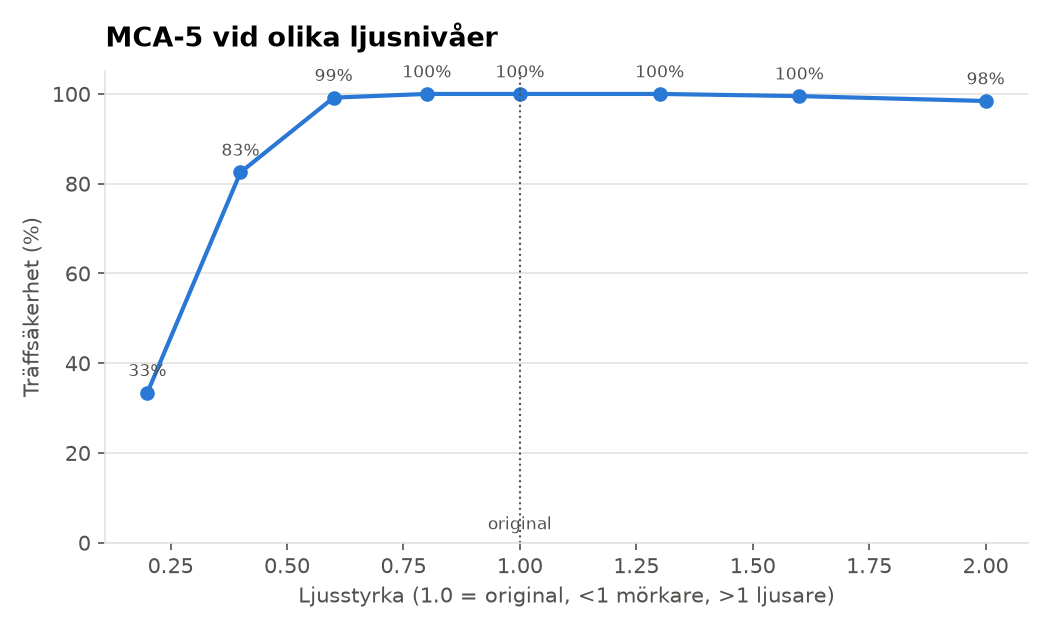
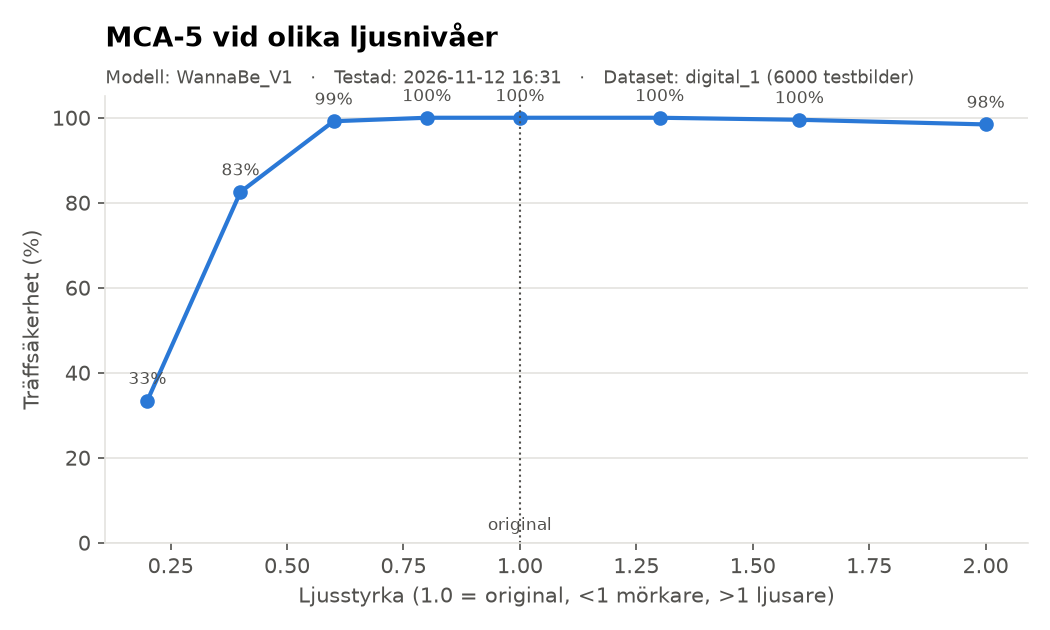
kommer inte ihåg vad som, gjordes här

diff --git a/grafer.py b/grafer.py
@@ -5,7 +5,9 @@ Kör (efter trana.py och utvardera.py):
     python grafer.py                       # senast utvärderade modellen
     python grafer.py --modell mca5_robust  # en viss modellmapp
 
-Läser robusthet.csv och logg.csv i modellens mapp och sparar graferna där:
+Läser robusthet.csv, logg.csv, testinfo.txt och info.txt i modellens mapp
+och sparar graferna där. Varje graf får en undertitel med modellens namn,
+när den testades/tränades och vilket dataset som användes:
     graf_suddighet.png   - träffsäkerhet vid ökande suddighet
     graf_ljus.png        - träffsäkerhet vid olika ljusnivåer
     graf_traning.png     - hur träffsäkerheten utvecklades under träningen
@@ -38,8 +40,25 @@ def läs_csv(fil):
     raise ValueError(f"Kunde inte läsa {fil}")
 
 
-def snygga_till(ax, titel, xetikett):
-    ax.set_title(titel, loc="left", fontsize=13, fontweight="bold", pad=12)
+UNDERTITEL = ""  # fylls i main() med modell, testdatum och dataset
+
+
+def läs_info(fil):
+    """Läser en info-fil med rader som 'nyckel: värde'."""
+    info = {}
+    if fil.exists():
+        for rad in fil.read_text(encoding="utf-8").splitlines():
+            if ":" in rad:
+                nyckel, värde = rad.split(":", 1)
+                info[nyckel.strip().lower()] = värde.strip()
+    return info
+
+
+def snygga_till(ax, titel, xetikett, undertitel=None):
+    undertitel = UNDERTITEL if undertitel is None else undertitel
+    ax.set_title(titel, loc="left", fontsize=13, fontweight="bold", pad=24 if undertitel else 12)
+    if undertitel:
+        ax.text(0, 1.02, undertitel, transform=ax.transAxes, fontsize=8.5, color=TEXT, va="bottom")
     ax.set_xlabel(xetikett, color=TEXT)
     ax.set_ylabel("Träffsäkerhet (%)", color=TEXT)
     ax.set_ylim(0, 105)
@@ -79,6 +98,12 @@ def main():
     print("Modell:", ut)
     loggfil = ut / "logg.csv"
 
+    # Undertitel: vilken modell, när den testades och på vilket dataset
+    global UNDERTITEL
+    test = läs_info(ut / "testinfo.txt")
+    UNDERTITEL = (f"Modell: {ut.name}   ·   Testad: {test.get('testad', 'okänt')}   ·   "
+                  f"Dataset: {test.get('dataset', 'okänt')} ({test.get('testbilder', '?')} testbilder)")
+
     # Robusthet: dela upp raderna i suddighet och ljus
     rader = läs_csv(ut / "robusthet.csv")
     sudd = [(float(n), float(t) * 100) for s, n, t in rader if s.startswith("sudd")]
@@ -103,7 +128,11 @@ def main():
         ax.annotate("Träning", (epoker[-1], train[-1]), xytext=(6, -4), textcoords="offset points", color=TEXT, fontsize=9)
         ax.annotate("Test", (epoker[-1], test[-1]), xytext=(6, 2), textcoords="offset points", color=TEXT, fontsize=9)
         ax.legend(frameon=False, loc="lower right")
-        snygga_till(ax, "Träffsäkerhet under träningen", "Epok")
+        träning = läs_info(ut / "info.txt")
+        snygga_till(ax, "Träffsäkerhet under träningen", "Epok",
+                    f"Modell: {ut.name}   ·   Tränad: {träning.get('skapad', 'okänt')}   ·   "
+                    f"Dataset: {träning.get('dataset', 'okänt')}   ·   "
+                    f"Byggde vidare på: {träning.get('byggde vidare på', '-')}")
         ax.set_xticks(epoker)
         fig.tight_layout()
         fig.savefig(ut / "graf_traning.png")

diff --git a/utvardera.py b/utvardera.py
@@ -22,6 +22,7 @@ ChatGPT och Claude, så att jämförelsen blir rättvis.
 
 import argparse
 import csv
+from datetime import datetime
 from pathlib import Path
 
 import torch
@@ -116,6 +117,14 @@ def main():
 
     # 3. Robusthet mot suddighet och ljus
     resultatfil = mapp / "robusthet.csv"
+
+    # Vilken modell, när och på vilket dataset - visas i graferna
+    (mapp / "testinfo.txt").write_text(
+        f"modell: {mapp.name}\n"
+        f"testad: {datetime.now():%Y-%m-%d %H:%M}\n"
+        f"dataset: {dataset.name}\n"
+        f"testbilder: {len(sökvägar)}\n",
+        encoding="utf-8")
     with open(resultatfil, "w", newline="", encoding="utf-8-sig") as f:
         skriv = csv.writer(f)
         skriv.writerow(["störning", "nivå", "träffsäkerhet"])
